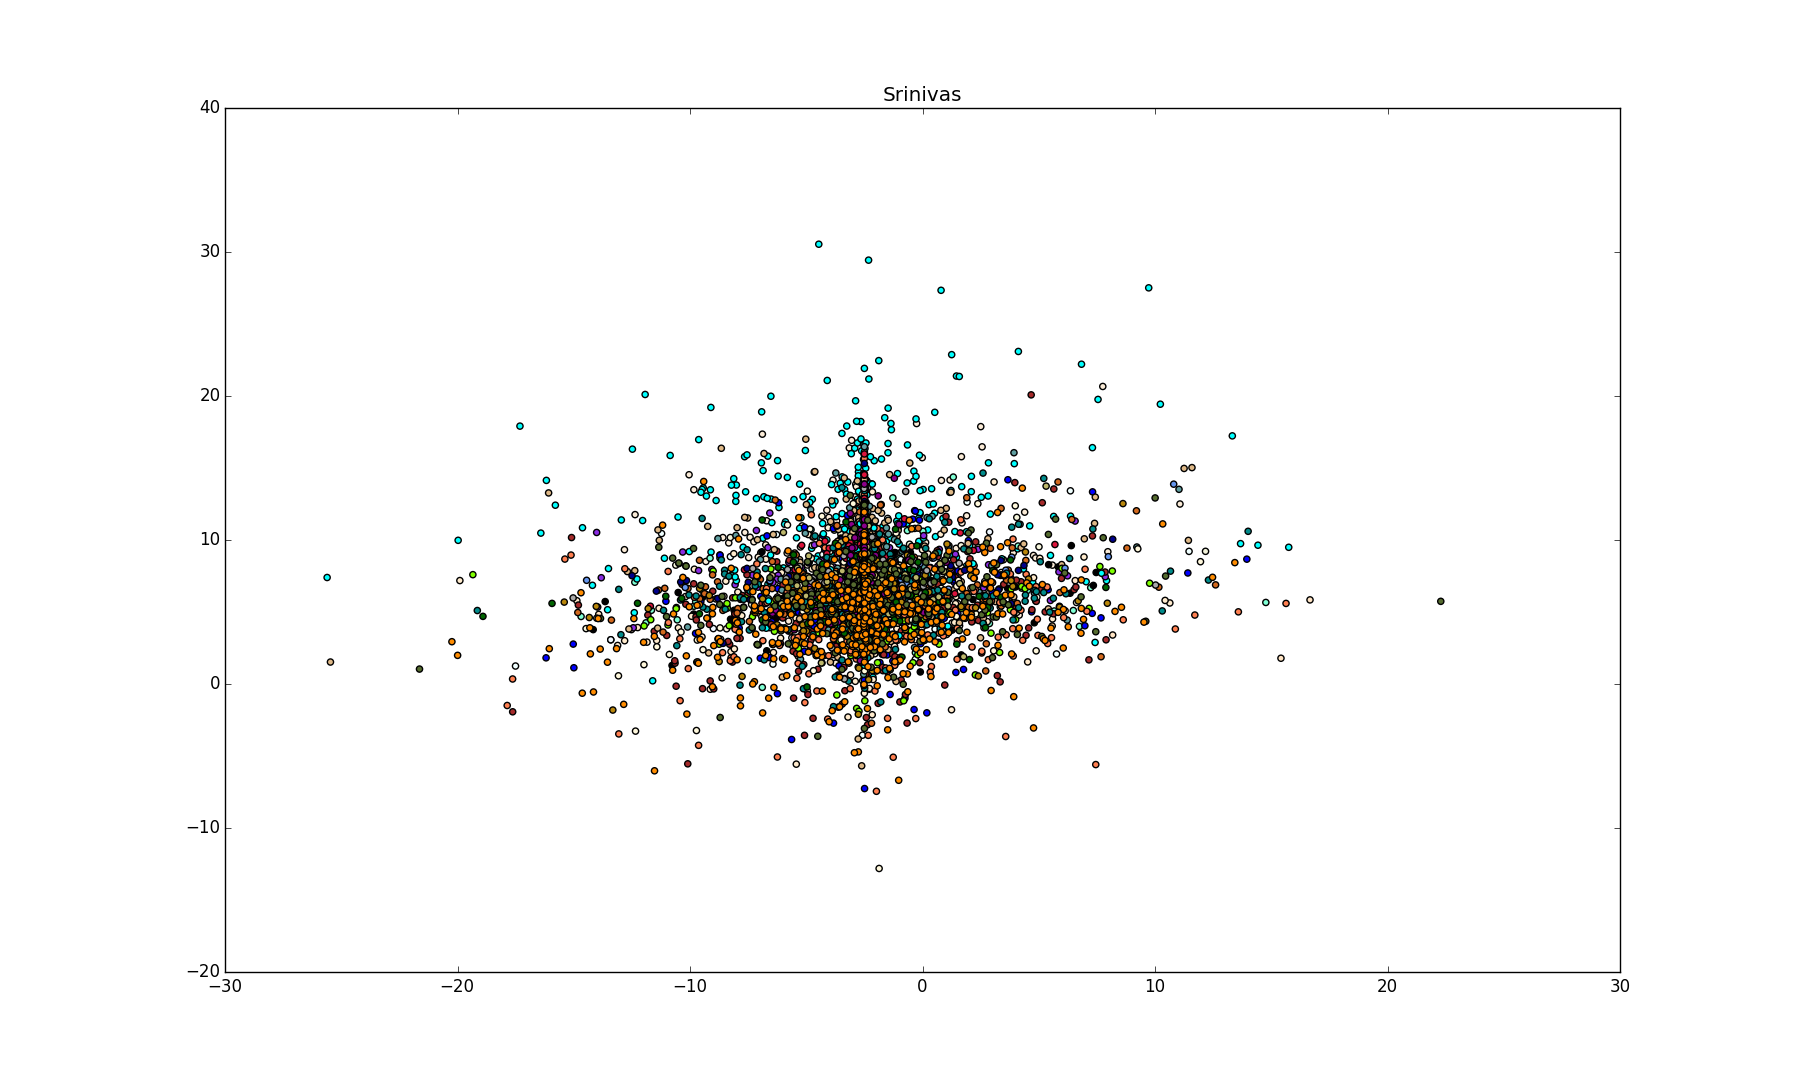
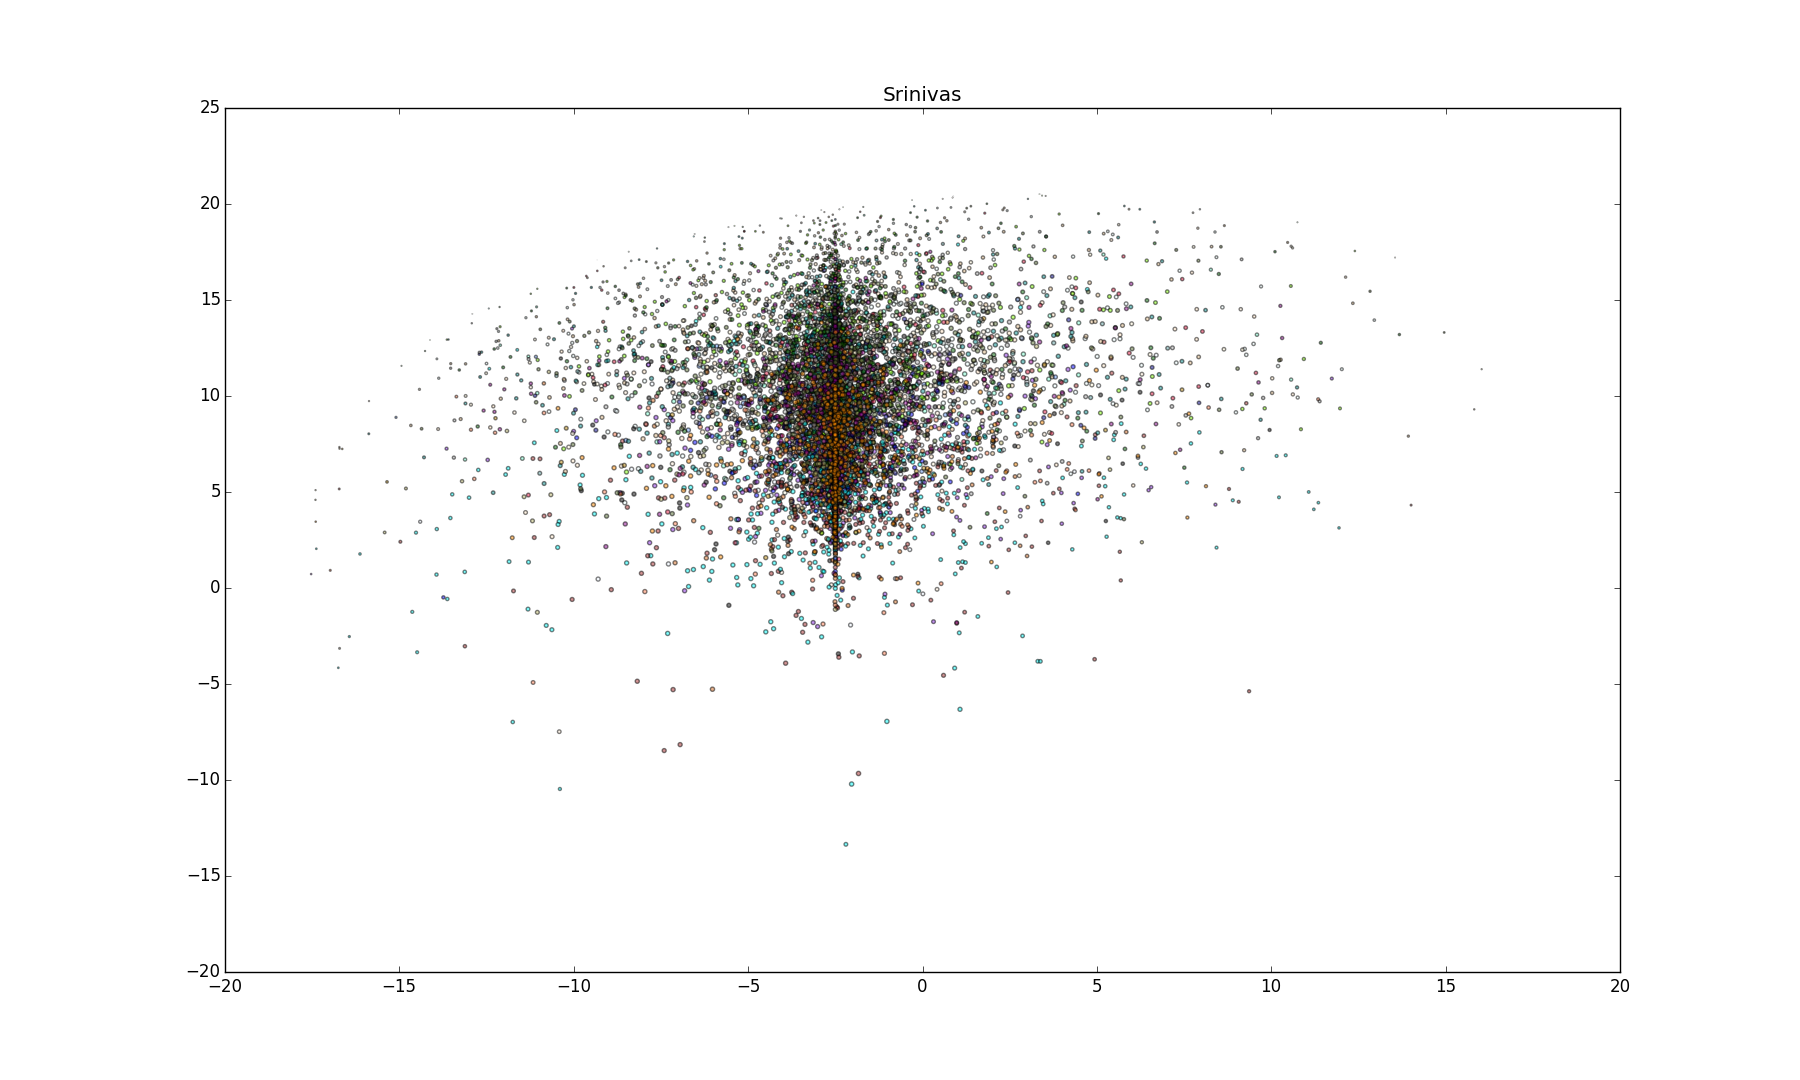
Added resizing of dots based on energy

Changed region(s): [[0.2489, 0.1833, 0.7156, 0.7333]]

diff --git a/project/grapher.py b/project/grapher.py
@@ -21,8 +21,17 @@ class grapher(object):
 
 	def graph(s):
 		plt.title(s.model.name)
+
 		for i in s.allCansX:
 			color = [colors[i]] * len(s.allCansY[i])
-			plt.scatter(s.allCansX[i], s.allCansY[i], c=color)
+			#this will calculate all the energies and then scale
+			#them to 15 which is accepted by matplotlib 
+			#this will increase the size of the circle for each 
+			#dot on the graph in proportion to it's
+			#betterness as an energy (ie the larger the dot
+			#the better the candidate)
+			energies = [(15 - (s.model.energy([x, y]) * 15)) \
+				for (x, y) in zip(s.allCansX[i], s.allCansY[i])]
+			plt.scatter(s.allCansX[i], s.allCansY[i], s=energies, c=color, alpha=0.5)
 
 		plt.show()
